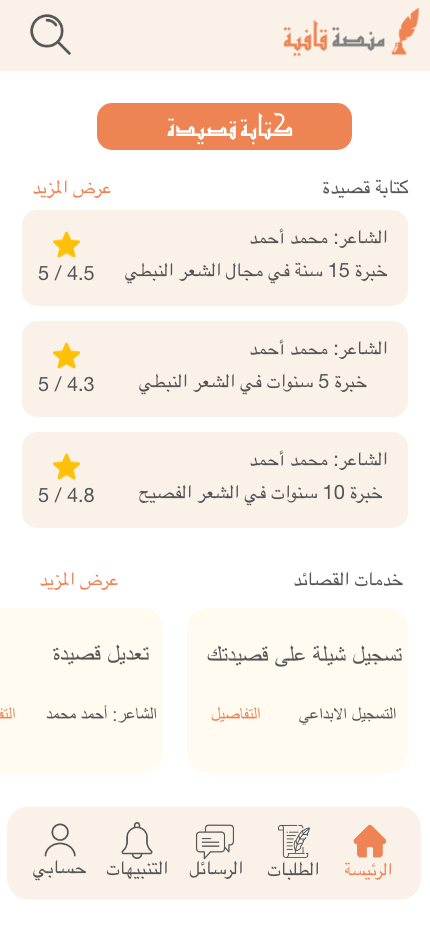
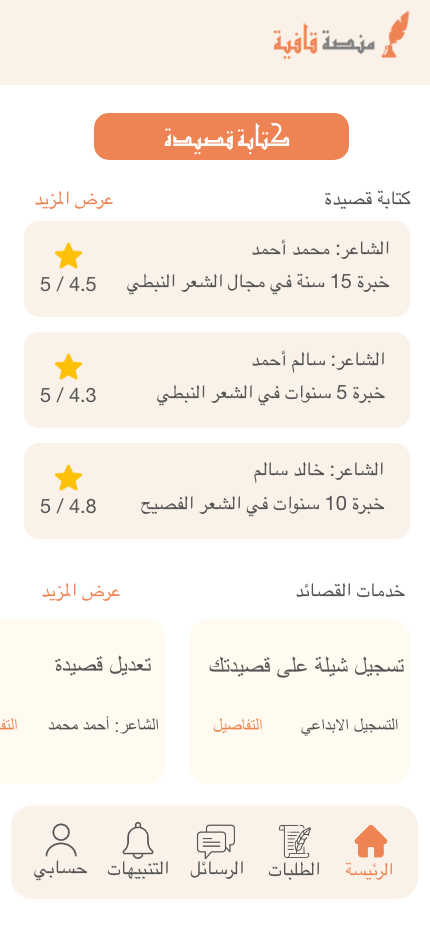
Updated the fonts and layout, and added  mobile-friendly layout

diff --git a/index.html b/index.html
@@ -2,6 +2,10 @@
 
 <html>
   <head>
+    <meta charset="utf-8" />
+    <meta name="viewport" content="width=device-width, initial-scale=1" />
+    <meta http-equiv="X-UA-Compatible" content="IE=edge" />
+
     <link
       rel="icon"
       sizes="192x192"
@@ -56,23 +60,23 @@
           <div class="collapse navbar-collapse" id="nav-menu">
             <ul class="navbar-nav mr-auto">
               <li class="nav-item active">
-                <a class="nav-link" href="./index.html#app-desc-section"
+                <a class="nav-link" href="#app-desc-section"
                   >نبذة</a
                 >
               </li>
               <li class="nav-item">
-                <a class="nav-link" href="./index.html#app-features-section"
+                <a class="nav-link" href="#app-features-section"
                   >لماذا منصة قافية ؟</a
                 >
               </li>
               <li class="nav-item">
-                <a class="nav-link" href="./index.html#app-team-section"
+                <a class="nav-link" href="#app-team-section"
                   >فريق قافية</a
                 >
               </li>
 
               <li class="nav-item">
-                <a class="nav-link" href="./index.html#contact-us-section"
+                <a class="nav-link" href="#contact-us-section"
                   >تواصل معنا</a
                 >
               </li>
@@ -197,16 +201,16 @@
           <div class="row">
           <div id="start-footer" class="footer-sec col-sm-12 col-md-6">
             <ul>
-              <a href="./index.html#wallpaper-section">
+              <a href="#wallpaper-section">
                 <li>الرئيسة</li>
               </a>
-              <a href="./index.html#app-desc-section">
+              <a href="#app-desc-section">
                 <li>نبذة</li>
               </a>
-              <a href="./index.html#app-features-section">
+              <a href="#app-features-section">
                 <li>لماذا منصة قافية ؟</li>
               </a>
-              <a href="./index.html#contact-us-section">
+              <a href="#contact-us-section">
                 <li>تواصل معنا</li>
               </a>
             </ul>
@@ -301,11 +305,6 @@
   <meta property="og:type" content="website" />
   <meta name="twitter:card" content="summary_large_image" />
   <meta name="twitter:title" content="Home | ${platform_name_en}_Platform" />
-  <meta charset="utf-8" />
-
-  <meta name="viewport" content="width=device-width, initial-scale=1" />
-
-  <meta http-equiv="X-UA-Compatible" content="IE=edge" />
   <meta name="format-detection" content="telephone=no" />
   `;
   </script>
